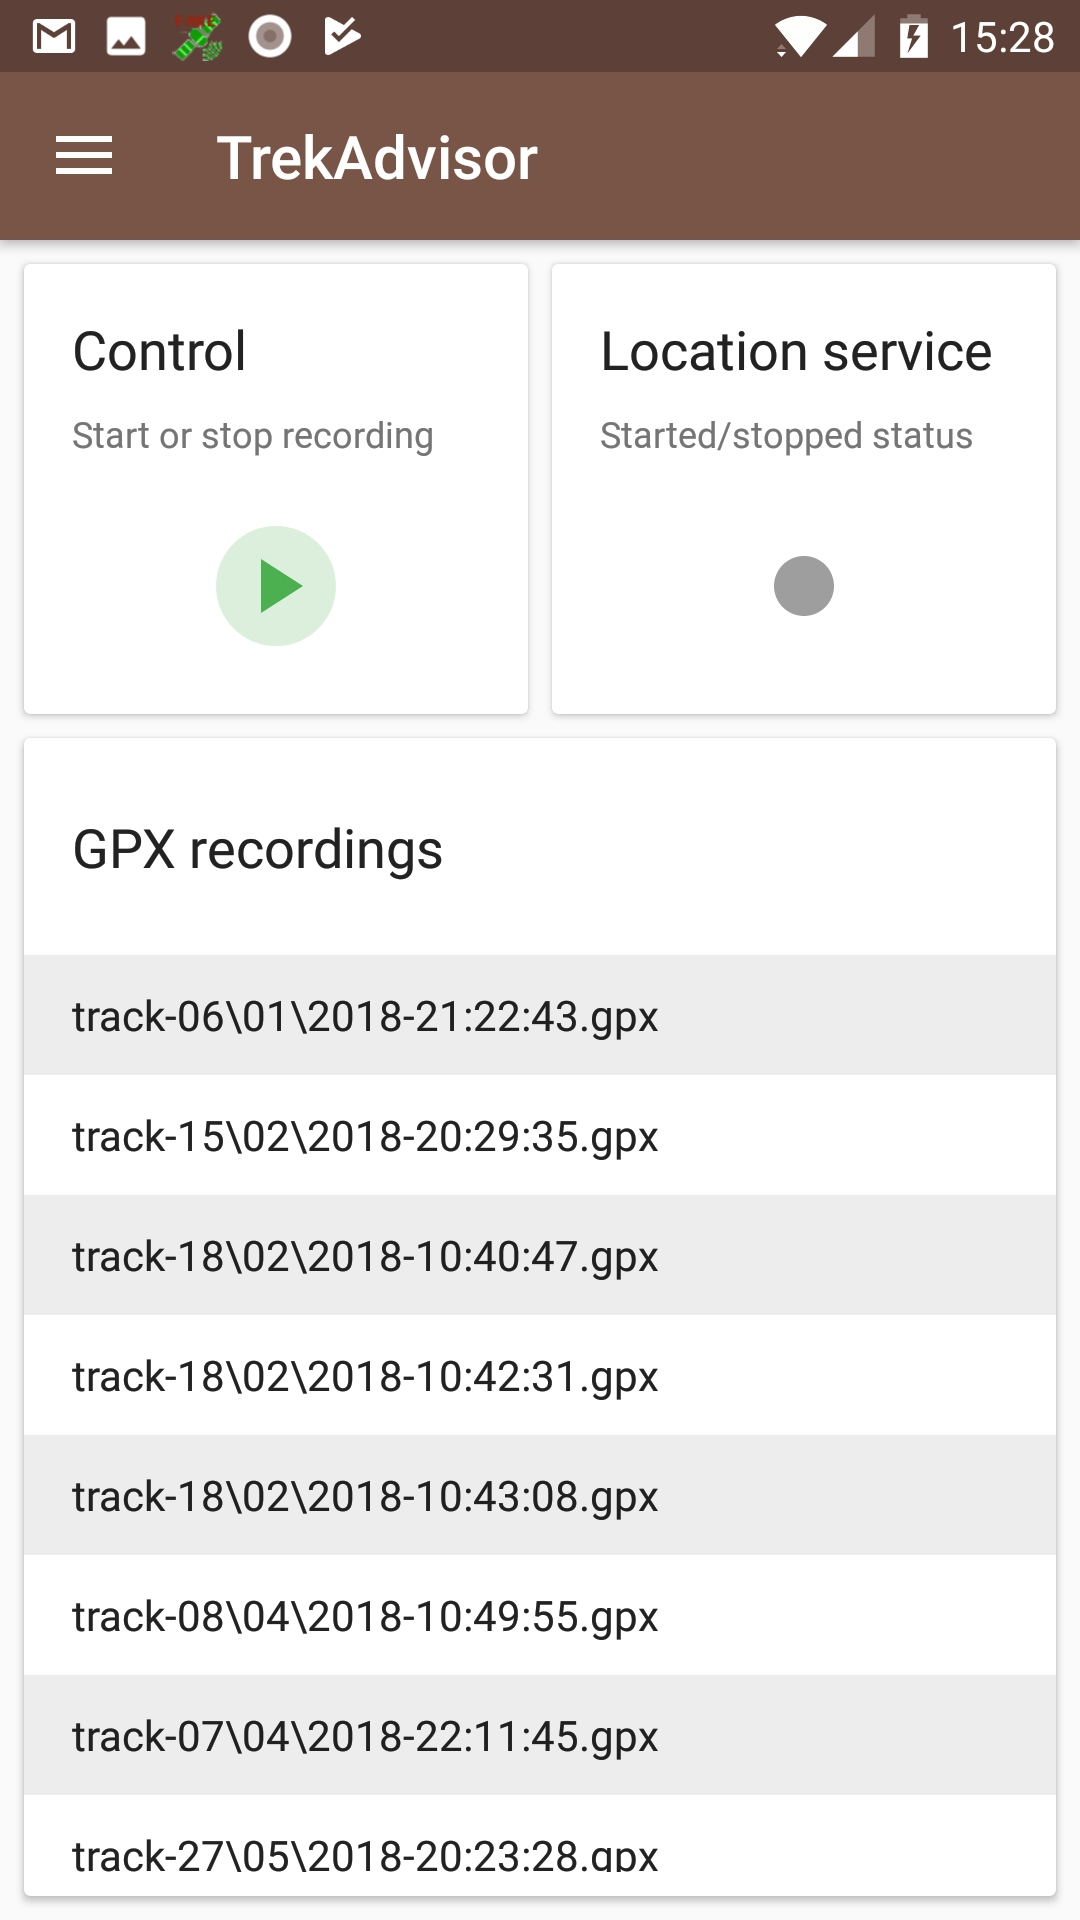
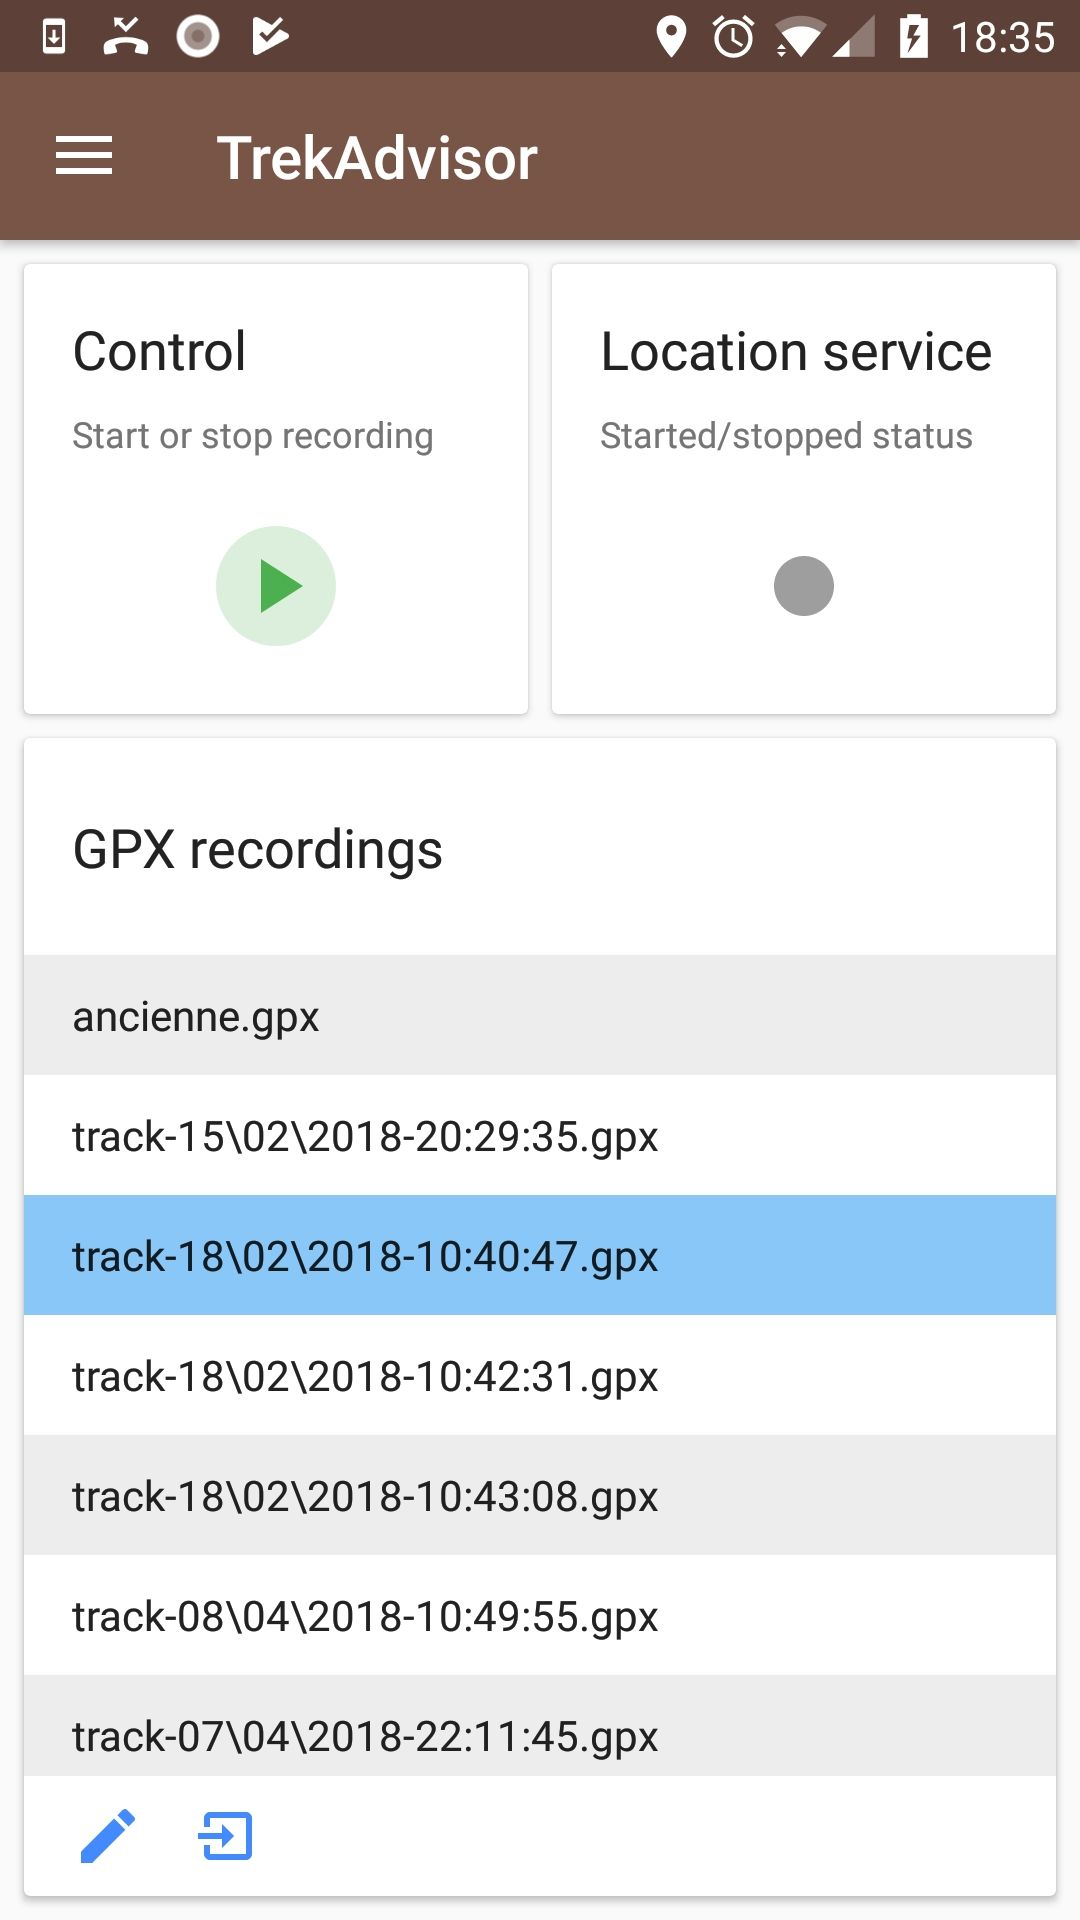
Update readme.

diff --git a/Readme.md b/Readme.md
@@ -234,5 +234,11 @@ From the "GPX Record" option menu, you get the following interface:
 The recording can be started or stopped from the control panel. When recording, the location service
 runs in the background. It continues even if TrekAdvisor is stopped or paused.
 An indicator reports back the status of the location service. A panel shows the list of recordings.
+
+From there, when selecting a track, there are two buttons at the bottom which enable you to :
+
+* rename it
+* import it into an existing map (press the import button at the bottom of the list, then choose the map)
+
 To delete a recording, long-press on it. The panel transitions into a selection mode, where there is a
-remove button at the bottom.
+remove button at the bottom. To go back to selection mode, long-press again somewhere in the list.
